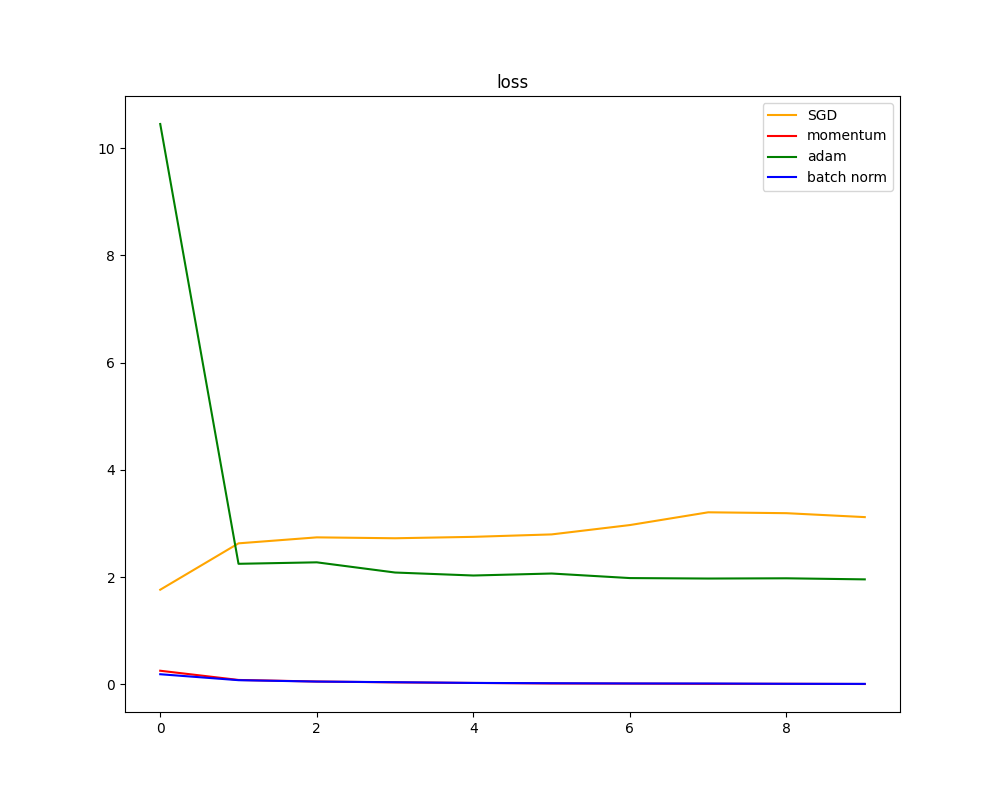
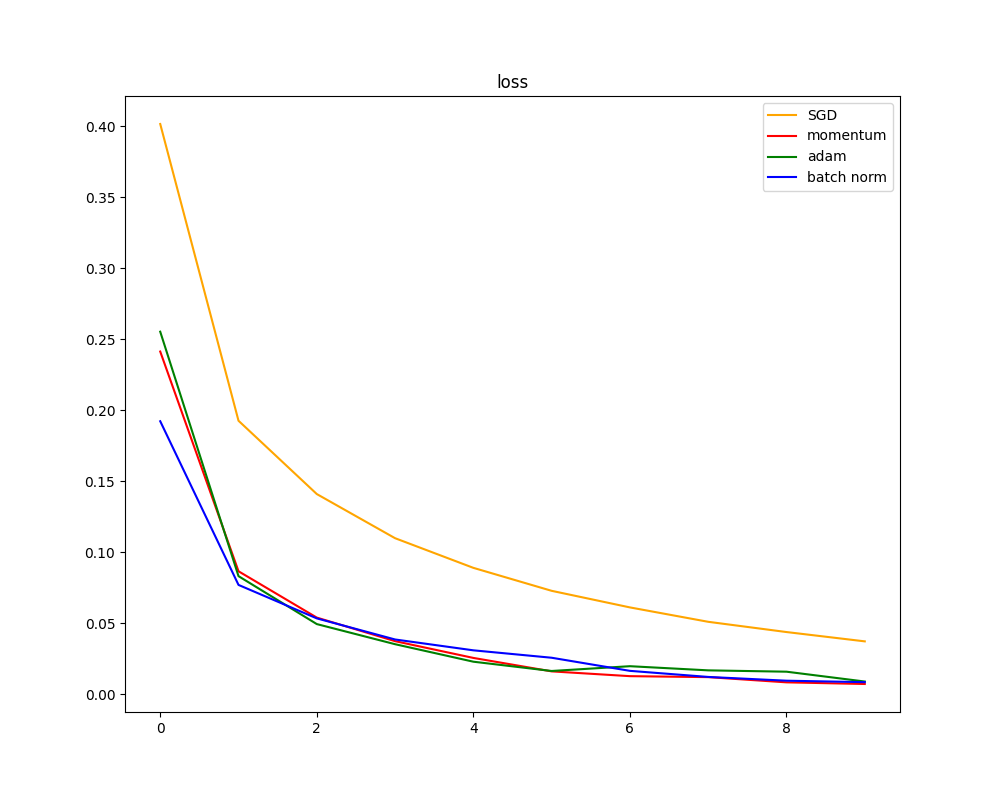
basically done, with plots

diff --git a/main.py b/main.py
@@ -2,6 +2,7 @@
 import os
 import numpy
 from numpy import random
+import random as random2
 import scipy
 import matplotlib
 import mnist
@@ -19,9 +20,6 @@ import time
 from tensorflow.keras.layers import BatchNormalization
 from tensorflow.keras.layers import Conv2D
 from tensorflow.keras.layers import MaxPool2D
-from tensorflow.keras.layers import Flatten
-from tensorflow.keras.layers import Input
-from tensorflow.keras import Model
 
 ### hyperparameter settings and other constants
 batch_size = 128
@@ -105,12 +103,11 @@ def train_fully_connected_sgd(Xs, Ys, d1, d2, alpha, beta, B, epochs):
 #   history     the history of training returned by model.fit (should be of type tensorflow.python.keras.callbacks.History)
 def train_fully_connected_adam(Xs, Ys, d1, d2, alpha, rho1, rho2, B, epochs):
     model = Sequential()
-    # TODO what is the mnist input shape? is it this constant?
     model.add(tf.keras.layers.Flatten(input_shape=mnist_input_shape))
-    model.add(Dense(d1, activation='relu', input_shape=mnist_input_shape))
+    model.add(Dense(d1, activation='relu'))
     model.add(Dense(d2, activation='relu'))
     model.add(Dense(num_classes, activation='softmax'))
-    model.compile(optimizer=Adam(learning_rate=alpha, beta_1=rho1, beta_2=rho2),
+    model.compile(optimizer=Adam(learning_rate=0.001, beta_1=rho1, beta_2=rho2),
                   loss=tf.keras.losses.SparseCategoricalCrossentropy(),
                   metrics=['accuracy'])
     history = model.fit(Xs, Ys, epochs=epochs, batch_size=B, verbose=0, validation_split=0.1)
@@ -143,7 +140,7 @@ def train_fully_connected_bn_sgd(Xs, Ys, d1, d2, alpha, beta, B, epochs):
                   metrics=['accuracy']
     )
     #metrics=[tf.keras.metrics.SparseCategoricalAccuracy()
-    history = model.fit(x=Xs, y=Ys, epochs=epochs, batch_size=B, verbose=0, validation_split=0.1)
+    history = model.fit(Xs, Ys, epochs=epochs, batch_size=B, verbose=0, validation_split=0.1)
     return model, history
 
 # train a convolutional neural network on MNIST data using SGD, and print the usual output from TF
@@ -179,8 +176,8 @@ def train_CNN_sgd(Xs, Ys, alpha, rho1, rho2, B, epochs):
 def plot_history(histories, key):
     """ histories is a list of tuples  of the form [(history, label)...]"""
     x_axis = numpy.arange(len(histories[0][0].history['loss']))
-    fig, (ax1) = pyplot.subplots(1, 1, figsize=(10, 8))
-    colors = ['orange', 'red', 'green', 'blue']
+    fig, (ax1) = pyplot.subplots(4, 2, figsize=(10, 8))
+    colors = ['orange', 'red', 'green', 'blue', 'yellow']
     for ind, (history, label) in enumerate(histories):
         ax1.plot(x_axis, history.history[key], color=colors[ind], label=label)
     ax1.set_title(key)
@@ -188,7 +185,30 @@ def plot_history(histories, key):
     pyplot.savefig(key + ".png")
 
 
-def part1_fully_connected_SGD(Xs_tr, Ys_tr, Xs_te, Ys_te):
+# plot_history(histories, 'loss')
+    # plot_history(histories, 'accuracy')
+    # plot_history(histories, 'val_loss')
+    # plot_history(histories, 'val_accuracy')
+
+
+def plot_loss(axis, i, j, history, test, label):
+    x_axis = numpy.arange(epochs) + 1
+    axis[i][j].plot(x_axis, history.history['loss'], color='orange', label='loss')
+    axis[i][j].plot(x_axis, history.history['val_loss'], color='green', label='validation loss')
+    axis[i][j].plot(x_axis, [test] * 10, color = 'blue', label='test loss')
+    axis[i][j].set_title(label)
+    axis[i][j].legend()
+
+def plot_accuracy(axis, i, j, history, test, label):
+    x_axis = numpy.arange(epochs) + 1
+    axis[i][j].plot(x_axis, history.history['accuracy'], color='orange', label='accuracy')
+    axis[i][j].plot(x_axis, history.history['val_accuracy'], color='green', label='validation accuracy')
+    axis[i][j].plot(x_axis, [test] * 10, color='blue', label='test accuracy')
+    axis[i][j].set_title(label)
+    axis[i][j].legend()
+
+
+def part1_fully_connected_SGD(Xs_tr, Ys_tr, Xs_te, Ys_te, axis):
     before_time = time.time()
     model, history = train_fully_connected_sgd(Xs_tr, Ys_tr, d1, d2, alpha, 0.0, batch_size, epochs)
     after_time = time.time() - before_time
@@ -197,10 +217,12 @@ def part1_fully_connected_SGD(Xs_tr, Ys_tr, Xs_te, Ys_te):
     print('test loss: ', test_loss)
     print('test accuracy:, ', test_acc)
     print('time: ', after_time)
+    plot_accuracy(axis, 0, 0, history, test_acc, 'SGD')
+    plot_loss(axis, 0, 1, history, test_loss, 'SGD')
     return history
 
 
-def part1_fully_connected_momentum(Xs_tr, Ys_tr, Xs_te, Ys_te):
+def part1_fully_connected_momentum(Xs_tr, Ys_tr, Xs_te, Ys_te, axis):
     before_time = time.time()
     model, history = train_fully_connected_sgd(Xs_tr, Ys_tr, d1, d2, alpha, 0.9, batch_size, epochs)
     after_time = time.time() - before_time
@@ -209,10 +231,11 @@ def part1_fully_connected_momentum(Xs_tr, Ys_tr, Xs_te, Ys_te):
     print('test loss: ', test_loss)
     print('test accuracy:, ', test_acc)
     print('time: ', after_time)
-
+    plot_accuracy(axis, 1, 0, history, test_acc, 'Momentum ')
+    plot_loss(axis, 1, 1, history, test_loss, 'Momentum')
     return history
 
-def part1_fully_connected_adam(Xs_tr, Ys_tr, Xs_te, Ys_te):
+def part1_fully_connected_adam(Xs_tr, Ys_tr, Xs_te, Ys_te, axis):
     before_time = time.time()
     model, history = train_fully_connected_adam(Xs_tr, Ys_tr, d1, d2, alpha, rho1, rho2, batch_size, epochs)
     after_time = time.time() - before_time
@@ -221,10 +244,12 @@ def part1_fully_connected_adam(Xs_tr, Ys_tr, Xs_te, Ys_te):
     print('test loss: ', test_loss)
     print('test accuracy:, ', test_acc)
     print('time: ', after_time)
+    plot_accuracy(axis, 2, 0, history, test_acc, 'Adam ')
+    plot_loss(axis, 2, 1, history, test_loss, 'Adam')
 
     return history
 
-def part1_fully_connected_BN(Xs_tr, Ys_tr, Xs_te, Ys_te):
+def part1_fully_connected_BN(Xs_tr, Ys_tr, Xs_te, Ys_te, axis):
     before_time = time.time()
     model, history = train_fully_connected_bn_sgd(Xs_tr, Ys_tr, d1, d2, alpha, 0.9, batch_size, epochs)
     after_time = time.time() - before_time
@@ -233,6 +258,8 @@ def part1_fully_connected_BN(Xs_tr, Ys_tr, Xs_te, Ys_te):
     print('test loss: ', test_loss)
     print('test accuracy:, ', test_acc)
     print('time: ', after_time)
+    plot_accuracy(axis, 3, 0, history, test_acc, 'Batch Norm')
+    plot_loss(axis, 3, 1, history, test_loss, 'Batch Norm')
 
     return history
 
@@ -252,9 +279,9 @@ def part2_1_step_size_grid_search(Xs_tr, Ys_tr, Xs_te, Ys_te):
     print(validation_loss)
 
 def part2_2_grid_search(Xs_tr, Ys_tr, Xs_te, Ys_te):
-    alphas = [1.0, 0.3, 0.1, 0.03, 0.01, 0.003]
+    alphas = [0.1, 0.03, 0.01]
     betas = [0.99, 0.9, 0.7]
-    batch_sizes = [256, 128, 64, 32]
+    batch_sizes = [128, 64, 32]
     validation_accuracy = {}
     validation_loss = {}
     for alpha1 in alphas:
@@ -275,12 +302,13 @@ def part2_3_random_search(Xs_tr, Ys_tr, Xs_te, Ys_te):
     alphas = [1.0, 0.3, 0.1, 0.03, 0.01, 0.003]
     betas = [0.99, 0.9, 0.7]
     batch_sizes = [256, 128, 64, 32]
-    distribution = set()
+    distribution = []
     for alpha1 in alphas:
         for beta1 in betas:
             for batch_size1 in batch_sizes:
-                distribution.add((alpha1, beta1, batch_size1))
-    random_sample = random.sample(distribution, 10)
+                distribution.append((alpha1, beta1, batch_size1))
+
+    random_sample = random2.sample(distribution, 10)
     validation_accuracy = {}
     validation_loss = {}
     for alpha2, beta2, batch_size2 in random_sample:
@@ -296,25 +324,57 @@ def part2_3_random_search(Xs_tr, Ys_tr, Xs_te, Ys_te):
     print(validation_loss)
 
 def part3_CNN(Xs_tr, Ys_tr, Xs_te, Ys_te):
-    pass
+    before_time = time.time()
+    model, history = train_CNN_sgd(Xs_tr, Ys_tr, .001, rho1, rho2, batch_size, epochs)
+    after_time = time.time() - before_time
+    test_loss, test_acc = model.evaluate(Xs_te, Ys_te)
+    print('===========part3_CNN===============')
+    print('test loss: ', test_loss)
+    print('test accuracy:, ', test_acc)
+    print('time: ', after_time)
+    fig, (axis) = pyplot.subplots(1, 2, figsize=(10, 8))
+
+    x_axis = numpy.arange(epochs) + 1
+    axis[0].plot(x_axis, history.history['accuracy'], color='orange', label='accuracy')
+    axis[0].plot(x_axis, history.history['val_accuracy'], color='green', label='validation accuracy')
+    axis[0].plot(x_axis, [test_acc] * 10, color='blue', label='test accuracy')
+    axis[0].set_title('CNN')
+    axis[0].legend()
+
+    axis[1].plot(x_axis, history.history['loss'], color='orange', label='loss')
+    axis[1].plot(x_axis, history.history['val_loss'], color='green', label='validation loss')
+    axis[1].plot(x_axis, [test_loss] * 10, color = 'blue', label='test loss')
+    axis[1].set_title('CNN')
+    axis[1].legend()
+    
+    pyplot.savefig("CNN.png")
+
+    return history
 
 if __name__ == "__main__":
     (Xs_tr, Ys_tr, Xs_te, Ys_te) = load_MNIST_dataset()
+    fig, (axis) = pyplot.subplots(4, 2, figsize=(14, 18))
 
-    # sgd_history = part1_fully_connected_SGD(Xs_tr, Ys_tr, Xs_te, Ys_te)
-    # momentum_history = part1_fully_connected_momentum(Xs_tr, Ys_tr, Xs_te, Ys_te)
-    # adam_history = part1_fully_connected_adam(Xs_tr, Ys_tr, Xs_te, Ys_te)
-    # bn_history = part1_fully_connected_BN(Xs_tr, Ys_tr, Xs_te, Ys_te)
-    # histories = [(sgd_history, 'SGD'), (momentum_history, 'momentum'), (adam_history, 'adam'), (bn_history, 'batch norm')]
+    # sgd_history = part1_fully_connected_SGD(Xs_tr, Ys_tr, Xs_te, Ys_te, axis)
+    # momentum_history = part1_fully_connected_momentum(Xs_tr, Ys_tr, Xs_te, Ys_te, axis)
+    # adam_history = part1_fully_connected_adam(Xs_tr, Ys_tr, Xs_te, Ys_te, axis)
+    # bn_history = part1_fully_connected_BN(Xs_tr, Ys_tr, Xs_te, Ys_te, axis)
+    # pyplot.savefig("8Plots" + ".png")
+
+    # part2_1_step_size_grid_search(Xs_tr, Ys_tr, Xs_te, Ys_te)
+    #grid_time = time.time()
+    #part2_2_grid_search(Xs_tr, Ys_tr, Xs_te, Ys_te)
+    #print('###### Grid Search time: ', time.time()-grid_time)
+    # random_time = time.time()
+    # part2_3_random_search(Xs_tr, Ys_tr, Xs_te, Ys_te)
+    # print('###### Random Search time: ', time.time()-random_time)
+
+    # model, history = train_CNN_sgd(Xs_tr, Ys_tr, alpha, rho1, rho2, batch_size, epochs)
+    # histories = [(sgd_history, 'SGD')]
     # plot_history(histories, 'loss')
     # plot_history(histories, 'accuracy')
     # plot_history(histories, 'val_loss')
     # plot_history(histories, 'val_accuracy')
-
-    part2_1_step_size_grid_search(Xs_tr, Ys_tr, Xs_te, Ys_te)
-    part2_2_grid_search(Xs_tr, Ys_tr, Xs_te, Ys_te)
-    part2_3_random_search(Xs_tr, Ys_tr, Xs_te, Ys_te)
-
-    #model, history = train_CNN_sgd(Xs_tr, Ys_tr, alpha, rho1, rho2, batch_size, epochs)
+    part3_CNN(Xs_tr, Ys_tr, Xs_te, Ys_te)
 
 
